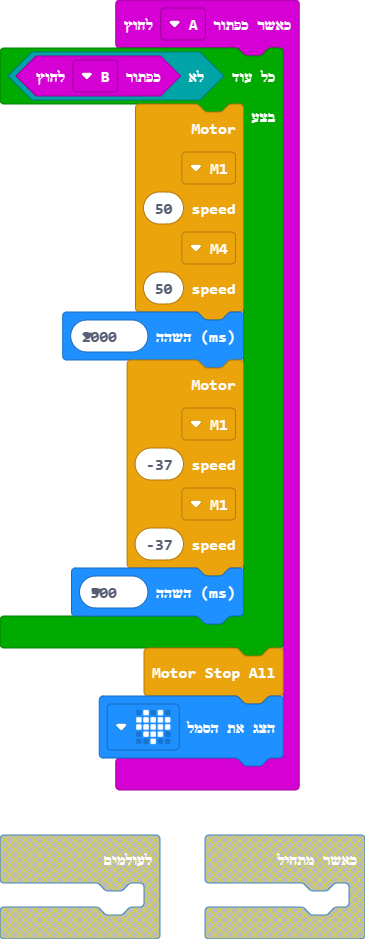
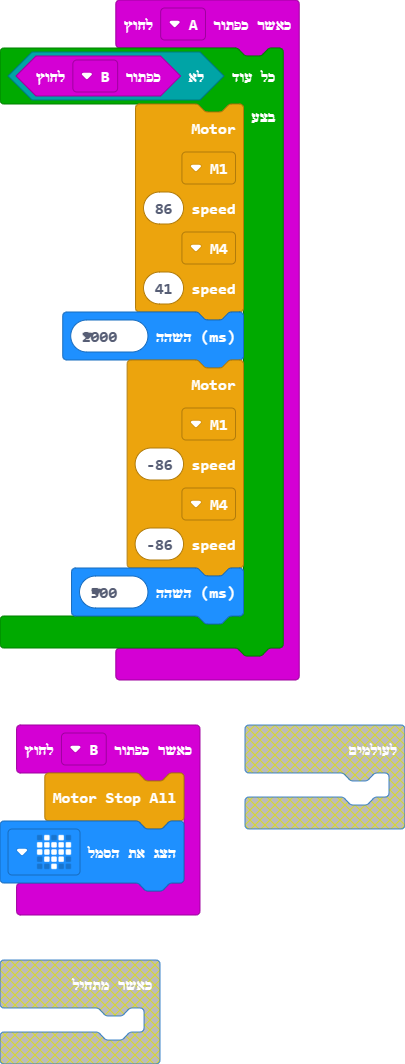
Update main.blocks, main.ts

diff --git a/main.ts b/main.ts
@@ -2,19 +2,21 @@ input.onButtonPressed(Button.A, function () {
     while (!(input.buttonIsPressed(Button.B))) {
         SuperBit.MotorRunDual(
         SuperBit.enMotors.M1,
-        50,
+        86,
         SuperBit.enMotors.M4,
-        50
+        41
         )
         basic.pause(2000)
         SuperBit.MotorRunDual(
         SuperBit.enMotors.M1,
-        -37,
-        SuperBit.enMotors.M1,
-        -37
+        -86,
+        SuperBit.enMotors.M4,
+        -86
         )
         basic.pause(500)
     }
+})
+input.onButtonPressed(Button.B, function () {
     SuperBit.MotorStopAll()
     basic.showIcon(IconNames.Heart)
 })
